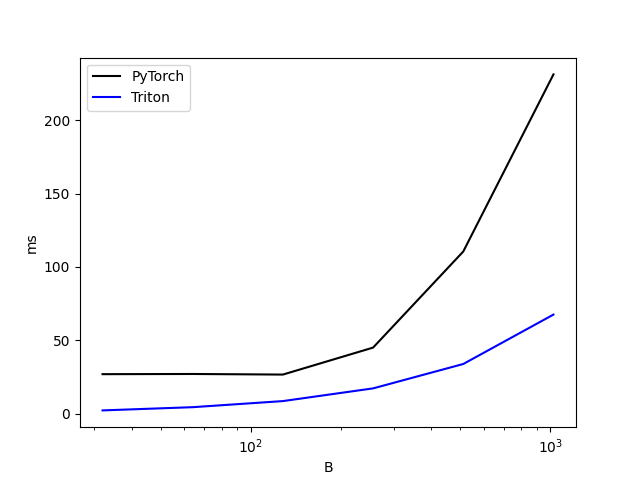
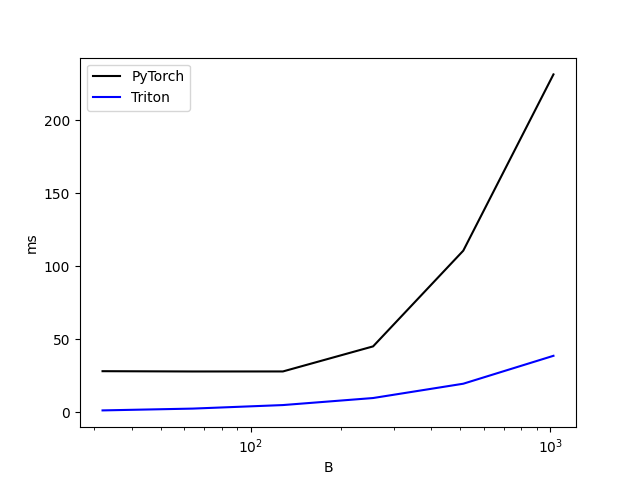
save 2

diff --git a/test_triton_bwd.py b/test_triton_bwd.py
@@ -259,7 +259,7 @@ def benchmark_chunk_kda_bwd_vs_B(
 @triton.testing.perf_report(
     triton.testing.Benchmark(
         x_names=["K", "V"],
-        x_vals=[(32,32), (64, 64), (128,128), (256,256)],
+        x_vals=[(32,32), (64, 64), (128, 128)],
         x_log=True,
         line_arg="provider",
         line_vals=["pytorch", "triton"],
@@ -331,8 +331,8 @@ def benchmark_chunk_kda_bwd_vs_KV(
 
 if __name__ == "__main__":
     for seed in range(5):
-        test_chunk_kda_bwd(T=120, dtype=torch.float16, include_state_in_loss=False, use_qk_l2norm_in_kernel=False, seed=seed)
+        test_chunk_kda_bwd(T=120, dtype=torch.float16, include_state_in_loss=True, use_qk_l2norm_in_kernel=False, seed=seed)
 
-    benchmark_chunk_kda_bwd_vs_B.run(save_path=".", print_data=False)
-    benchmark_chunk_kda_bwd_vs_T.run(save_path=".", print_data=False)
+    # benchmark_chunk_kda_bwd_vs_T.run(save_path=".", print_data=False)
+    # benchmark_chunk_kda_bwd_vs_B.run(save_path=".", print_data=False)
     benchmark_chunk_kda_bwd_vs_KV.run(save_path=".", print_data=False)

diff --git a/myfla/chunk_vecbeta.py b/myfla/chunk_vecbeta.py
@@ -268,8 +268,7 @@ class ChunkKDAFunction(torch.autograd.Function):
             k, k_rstd = l2norm_fwd(k)
         
         chunk_size = 64
-        
-        
+                
         o, Aqk, final_state, chunk_states, intra_states = chunk_kda_fwd(
             q=q,
             k=k,
@@ -283,6 +282,7 @@ class ChunkKDAFunction(torch.autograd.Function):
             initial_t=initial_t,
             T_cycle=T_cycle,
             chunk_indices=chunk_indices,
+            chunk_size=chunk_size,
         )
         
         
